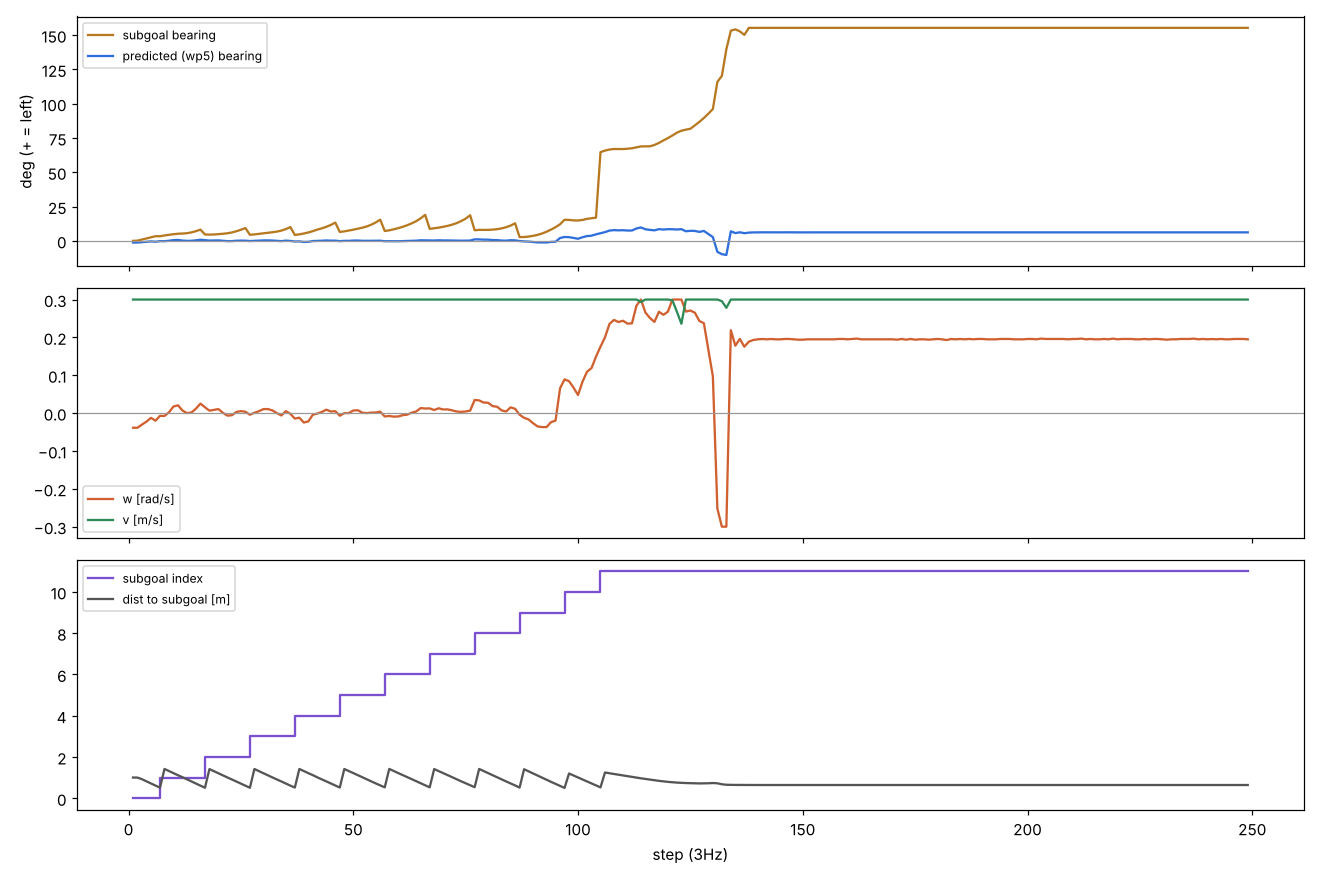
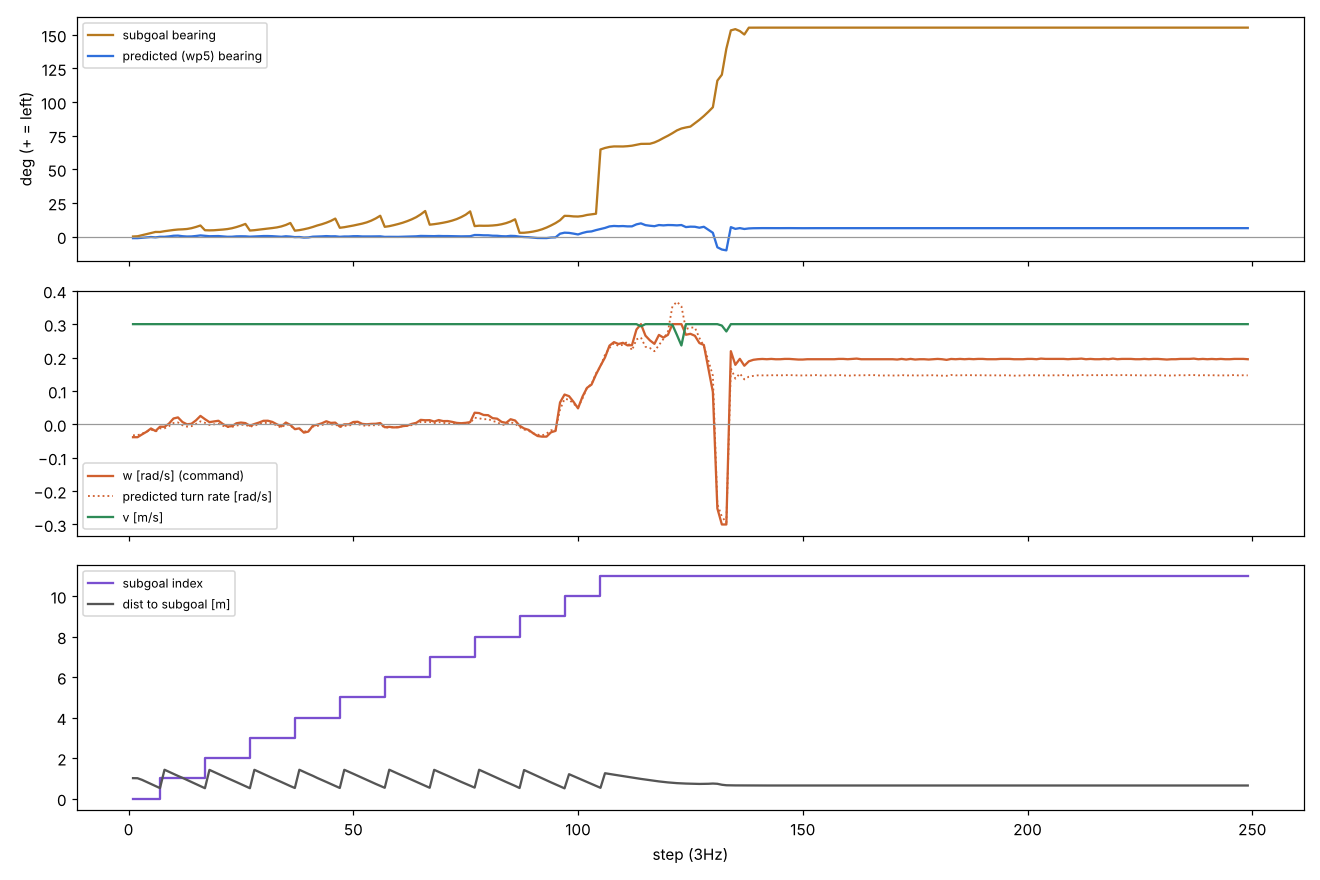
Analyze nav run 20261008_010804: upstream controller ignored predicted in-place turn
The run used controller=upstream (a stale CONTROLLER=upstream in .env overrides
the new trajectory default). At subgoals 11-12 the model predicted turning left
in place (heading +58 deg in 2.7 s, ~0.41 rad/s) for 46 s, but the upstream law
only looks at the position of wp4 and executed w ~0.02 rad/s, creeping straight
into the room until the subgoal was behind the robot.

- plot_nav_log: report "predicted turn not executed" segments, plot the
  predicted turn rate and predicted heading, warn when controller=upstream.
- navigator: warn at startup when the controller is not trajectory.
- README: fix .env (CONTROLLER=trajectory) before running.

Claude-Session: https://claude.ai/code/session_01QZsdz66V7GcYgAeAouna2T

diff --git a/tools/plot_nav_log.py b/tools/plot_nav_log.py
@@ -7,7 +7,8 @@
 出力 (ログディレクトリ内):
   overview.png   地図 + サブゴール (番号と向き) + 走行軌跡 + 予測軌跡 (左旋回=青 / 右旋回=赤)
   timeline.png   時間ごとの「サブゴールの方向」「予測軌跡の方向」「旋回指令 w」「サブゴール番号」
-  report.txt     サブゴールごとの区間, 予測がサブゴールと逆を向いたステップ, 指令が予測と逆のステップ
+  report.txt     サブゴールごとの区間, 予測がサブゴールと逆を向いたステップ, 指令が予測と逆のステップ,
+                 予測した旋回を実行できていない区間 (モデルは曲がろうとしているのに指令 w が小さい)
 """
 from __future__ import annotations
 
@@ -29,10 +30,13 @@ import matplotlib  # noqa: E402
 matplotlib.use("Agg")
 import matplotlib.pyplot as plt  # noqa: E402
 
+from omnivla_nav.controller import ControllerConfig, trajectory_command  # noqa: E402
 from omnivla_nav.geometry import to_world  # noqa: E402
 
 WORLDS = os.path.join(REPO, "ros2_ws", "src", "omnivla_gazebo", "worlds")
 OPPOSITE_MIN_DEG = 15.0   # これより大きく横にあるサブゴールだけ「逆向き」を判定
+UNDER_TURN_MIN_W = 0.15   # 予測の旋回がこれ [rad/s] 以上のときだけ「実行できていない」を判定
+UNDER_TURN_RATIO = 0.5    # 実行した w が予測の旋回のこの割合未満なら「実行できていない」
 
 
 def resolve_run_dir(path: str) -> str:
@@ -61,6 +65,37 @@ def waypoints_of(r) -> np.ndarray:
     return np.array([[r[f"wp{i}_x"], r[f"wp{i}_y"]] for i in range(8)])
 
 
+def predicted_turn_rate(r) -> float:
+    """予測 8 点 (位置と向き) が表す旋回の速さ [rad/s] (= trajectory 制御が出す w, 上限なし)."""
+    wps = np.array([[r[f"wp{i}_x"], r[f"wp{i}_y"], math.cos(math.radians(r[f"wp{i}_yaw_deg"])),
+                     math.sin(math.radians(r[f"wp{i}_yaw_deg"]))] for i in range(8)])
+    if not np.isfinite(wps).all():
+        return math.nan
+    return trajectory_command(wps, ControllerConfig(mode="trajectory", track_max_v=1e9, track_max_w=1e9))[1]
+
+
+def under_turn_segments(rows):
+    """モデルが曲がる予測をしているのに、実行した w がその半分未満 (または逆向き) の連続区間."""
+    segs, cur = [], []
+    for r in rows:
+        wp = r["pred_w"]
+        bad = (not math.isnan(wp) and abs(wp) >= UNDER_TURN_MIN_W
+               and (sign(r["w"]) != sign(wp) or abs(r["w"]) < UNDER_TURN_RATIO * abs(wp)))
+        if bad:
+            cur.append(r)
+        elif cur:
+            segs.append(cur)
+            cur = []
+    if cur:
+        segs.append(cur)
+    return segs
+
+
+def circular_mean_deg(a) -> float:
+    a = np.radians(np.asarray(a, dtype=np.float64))
+    return float(np.degrees(np.arctan2(np.nanmean(np.sin(a)), np.nanmean(np.cos(a)))))
+
+
 def sign(x: float, eps: float = 1e-6) -> int:
     return 0 if abs(x) < eps else (1 if x > 0 else -1)
 
@@ -83,6 +118,9 @@ def write_report(run_dir, rows, meta, summary, pred_opp, cmd_opp) -> str:
     lines.append(f"goal: {meta.get('goal_source')}  world: {meta.get('world')}  modality: {meta.get('modality')}  "
                  f"controller: {meta.get('controller')}")
     lines.append(f"model: {meta.get('model')}")
+    if meta.get("controller") == "upstream":
+        lines.append("WARNING: controller=upstream (公式の式) は予測した向きを使わないので、モデルが「その場で曲がる」"
+                     "予測をしても曲がりません。.env の CONTROLLER=trajectory を確認してください")
     if summary:
         lines.append("summary: " + ", ".join(f"{k}={summary[k]}" for k in
                                               ("reason", "reached", "steps", "final_dist_to_goal",
@@ -108,6 +146,20 @@ def write_report(run_dir, rows, meta, summary, pred_opp, cmd_opp) -> str:
     lines.append("   -> 制御 (軌跡 -> v, w の変換) 側の問題。0 であるべき")
     for r in cmd_opp[:40]:
         lines.append(f"step {int(r['step']):4d}  pred {r['pred_bearing_deg']:+6.0f}deg  w={r['w']:+.2f}")
+    segs = under_turn_segments(rows)
+    n_bad = sum(len(s) for s in segs)
+    lines.append("")
+    lines.append(f"== 予測した旋回を実行できていない区間 ({n_bad}/{len(rows)} steps) ==")
+    lines.append(f"   (予測 8 点が |w|>={UNDER_TURN_MIN_W}rad/s の旋回を表すのに, 指令 w がその {UNDER_TURN_RATIO:.0%} 未満)"
+                 " -> 制御側の問題。0 に近いべき")
+    for s in segs:
+        if len(s) < 3:
+            continue
+        dur = s[-1]["sim_time"] - s[0]["sim_time"]
+        lines.append(f"steps {int(s[0]['step']):4d}-{int(s[-1]['step']):4d} ({dur:5.1f}s) subgoal {int(s[0]['subgoal']):2d}  "
+                     f"goal {circular_mean_deg([r['goal_bearing_deg'] for r in s]):+5.0f}deg  "
+                     f"predicted w={np.mean([r['pred_w'] for r in s]):+.2f}  executed w={np.mean([r['w'] for r in s]):+.2f}  "
+                     f"v={np.mean([r['v'] for r in s]):.2f}")
     text = "\n".join(lines) + "\n"
     with open(os.path.join(run_dir, "report.txt"), "w") as f:
         f.write(text)
@@ -172,10 +224,13 @@ def plot_timeline(run_dir, rows):
     fig, axs = plt.subplots(3, 1, figsize=(12, 8), dpi=110, sharex=True)
     axs[0].plot(t, [r["goal_bearing_deg"] for r in rows], label="subgoal bearing", color="#b7791f")
     axs[0].plot(t, [r["pred_bearing_deg"] for r in rows], label="predicted (wp5) bearing", color="#2f6fdb")
+    axs[0].plot(t, [r.get("wp7_yaw_deg", math.nan) for r in rows], label="predicted heading after 2.7s (wp8 yaw)",
+                color="#2f6fdb", ls=":", lw=1.2)
     axs[0].axhline(0, color="#999", lw=0.8)
     axs[0].set_ylabel("deg (+ = left)")
     axs[0].legend(fontsize=8)
-    axs[1].plot(t, [r["w"] for r in rows], label="w [rad/s]", color="#d0602f")
+    axs[1].plot(t, [r["w"] for r in rows], label="w [rad/s] (command)", color="#d0602f")
+    axs[1].plot(t, [r["pred_w"] for r in rows], label="predicted turn rate [rad/s]", color="#d0602f", ls=":", lw=1.2)
     axs[1].plot(t, [r["v"] for r in rows], label="v [m/s]", color="#2e8b57")
     axs[1].axhline(0, color="#999", lw=0.8)
     axs[1].legend(fontsize=8)
@@ -208,6 +263,8 @@ def main(argv=None):
         raise SystemExit("steps.csv is empty (navigator が推論する前に終了した)")
     world = args.world or meta.get("world") or ""
     sdf = world if world.endswith(".sdf") else (os.path.join(WORLDS, f"{world}.sdf") if world else "")
+    for r in rows:
+        r["pred_w"] = predicted_turn_rate(r)
     pred_opp, cmd_opp = analyze(rows, meta)
     print(write_report(run_dir, rows, meta, summary, pred_opp, cmd_opp))
     print("->", plot_overview(run_dir, rows, meta, sdf, args.every))

diff --git a/tests/test_core.py b/tests/test_core.py
@@ -543,6 +543,23 @@ def test_navlog_and_analyzer():
         assert "(5/5)" in rep  # サブゴールは左 (+27deg) なのに予測は右 -> 全ステップ検出
         assert os.path.exists(os.path.join(run, "overview.png")) and os.path.exists(os.path.join(run, "timeline.png"))
         assert json.load(open(os.path.join(run, "meta.json")))["world"] == "office_0"
+        # その場で左に曲がる予測 (位置はほぼ動かず向きだけ +60deg) を w≈0 で実行 -> 「実行できていない区間」に出る
+        sys.path.insert(0, os.path.join(REPO, "tools"))
+        import plot_nav_log
+        rows = []
+        for k in range(6):
+            r = {"step": k + 1, "sim_time": k / 3, "subgoal": 0, "goal_bearing_deg": 90.0, "v": 0.05, "w": 0.01}
+            for i in range(8):
+                yaw = 60.0 * (i + 1) / 8
+                r.update({f"wp{i}_x": 0.02 * (i + 1), f"wp{i}_y": 0.0, f"wp{i}_yaw_deg": yaw})
+            r["pred_w"] = plot_nav_log.predicted_turn_rate(r)
+            rows.append(r)
+        assert rows[0]["pred_w"] > 0.3
+        segs = plot_nav_log.under_turn_segments(rows)
+        assert len(segs) == 1 and len(segs[0]) == 6
+        for r in rows:
+            r["w"] = r["pred_w"]                      # trajectory 制御なら予測どおり曲がる
+        assert not plot_nav_log.under_turn_segments(rows)
     finally:
         shutil.rmtree(tmp)
 

diff --git a/ros2_ws/src/omnivla_gazebo/omnivla_gazebo/navigator_node.py b/ros2_ws/src/omnivla_gazebo/omnivla_gazebo/navigator_node.py
@@ -178,6 +178,11 @@ class NavigatorNode(Node):
             self._set_goals(load_goal_sequence(g("goal_path")), source=g("goal_path"))
         self.state = "idle" if self.tracker is None else ("running" if self.enabled else "paused")
         self.get_logger().info(f"OmniVLA navigator ready: modality={self.modality}, controller={self.ctrl.mode}")
+        if self.ctrl.mode != "trajectory":
+            self.get_logger().warn(
+                f"controller={self.ctrl.mode}: 予測軌跡をそのまま実行しない制御則です"
+                + (" (公式の式は予測した向きを使わず, その場で曲がる予測をしても曲がりません)" if self.ctrl.mode == "upstream" else "")
+                + "。通常は controller:=trajectory (.env の CONTROLLER=trajectory) を使ってください")
         self.thread = threading.Thread(target=self._loop, daemon=True)
         self.thread.start()
 
